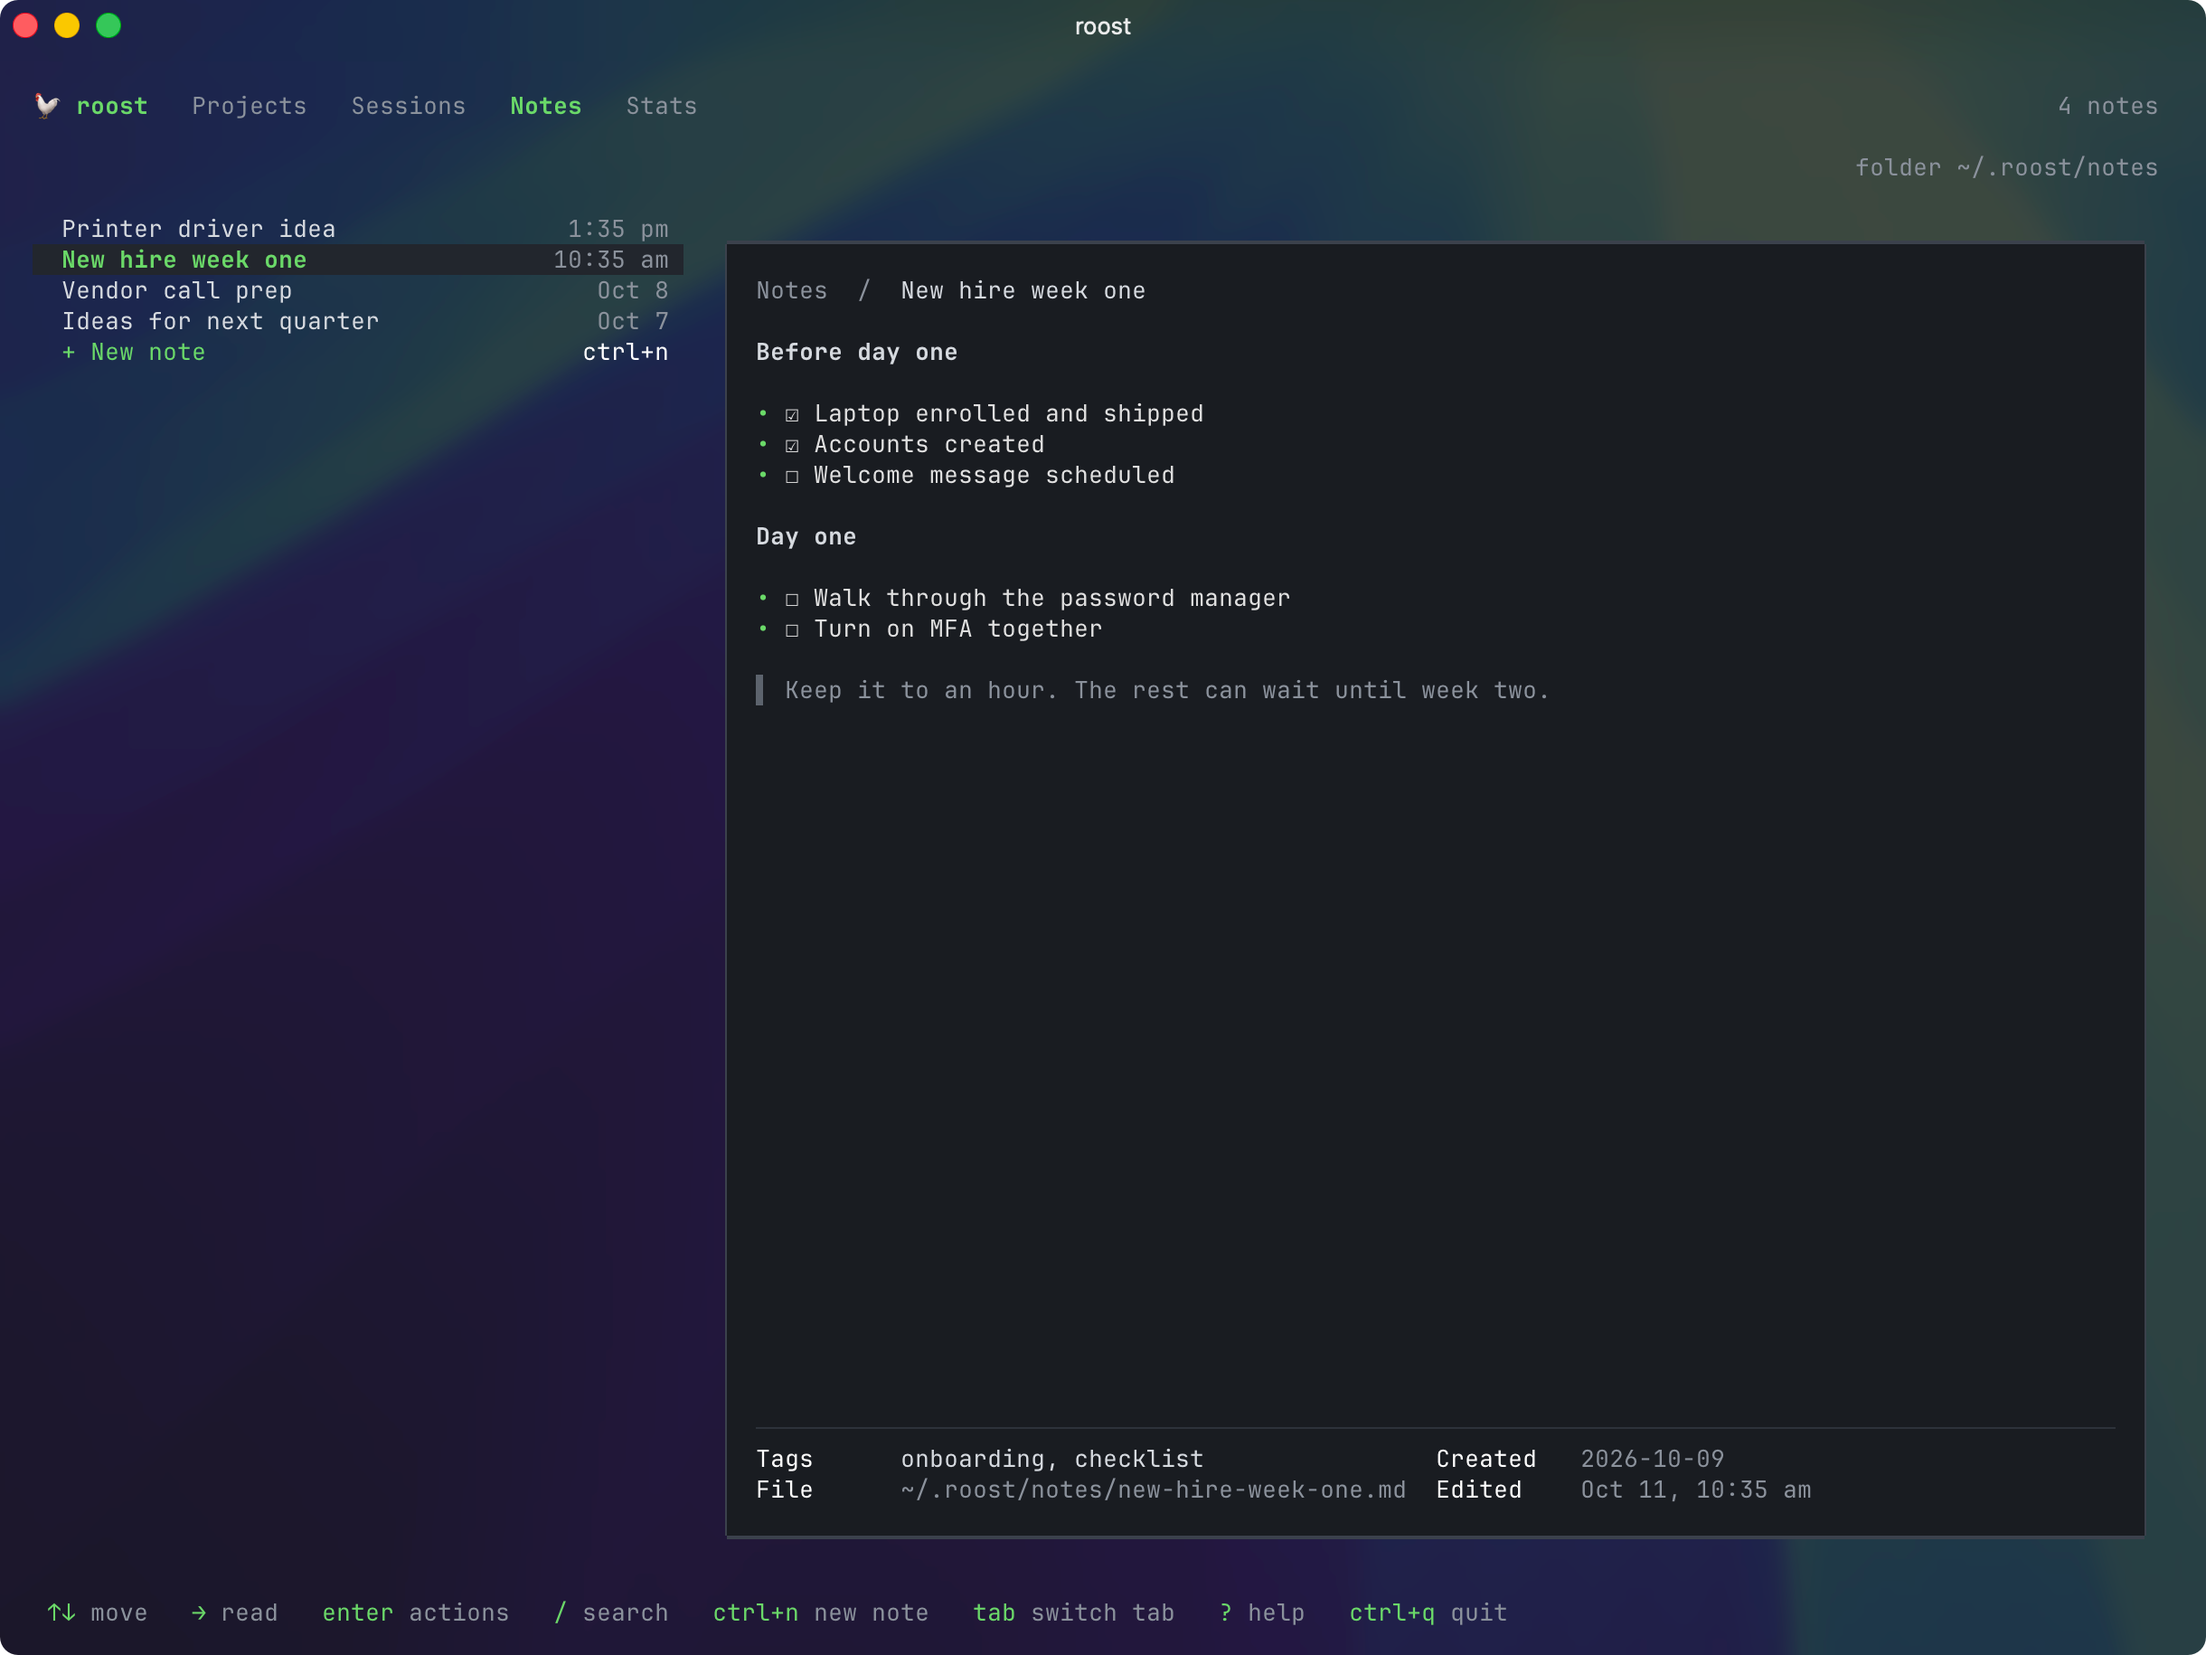
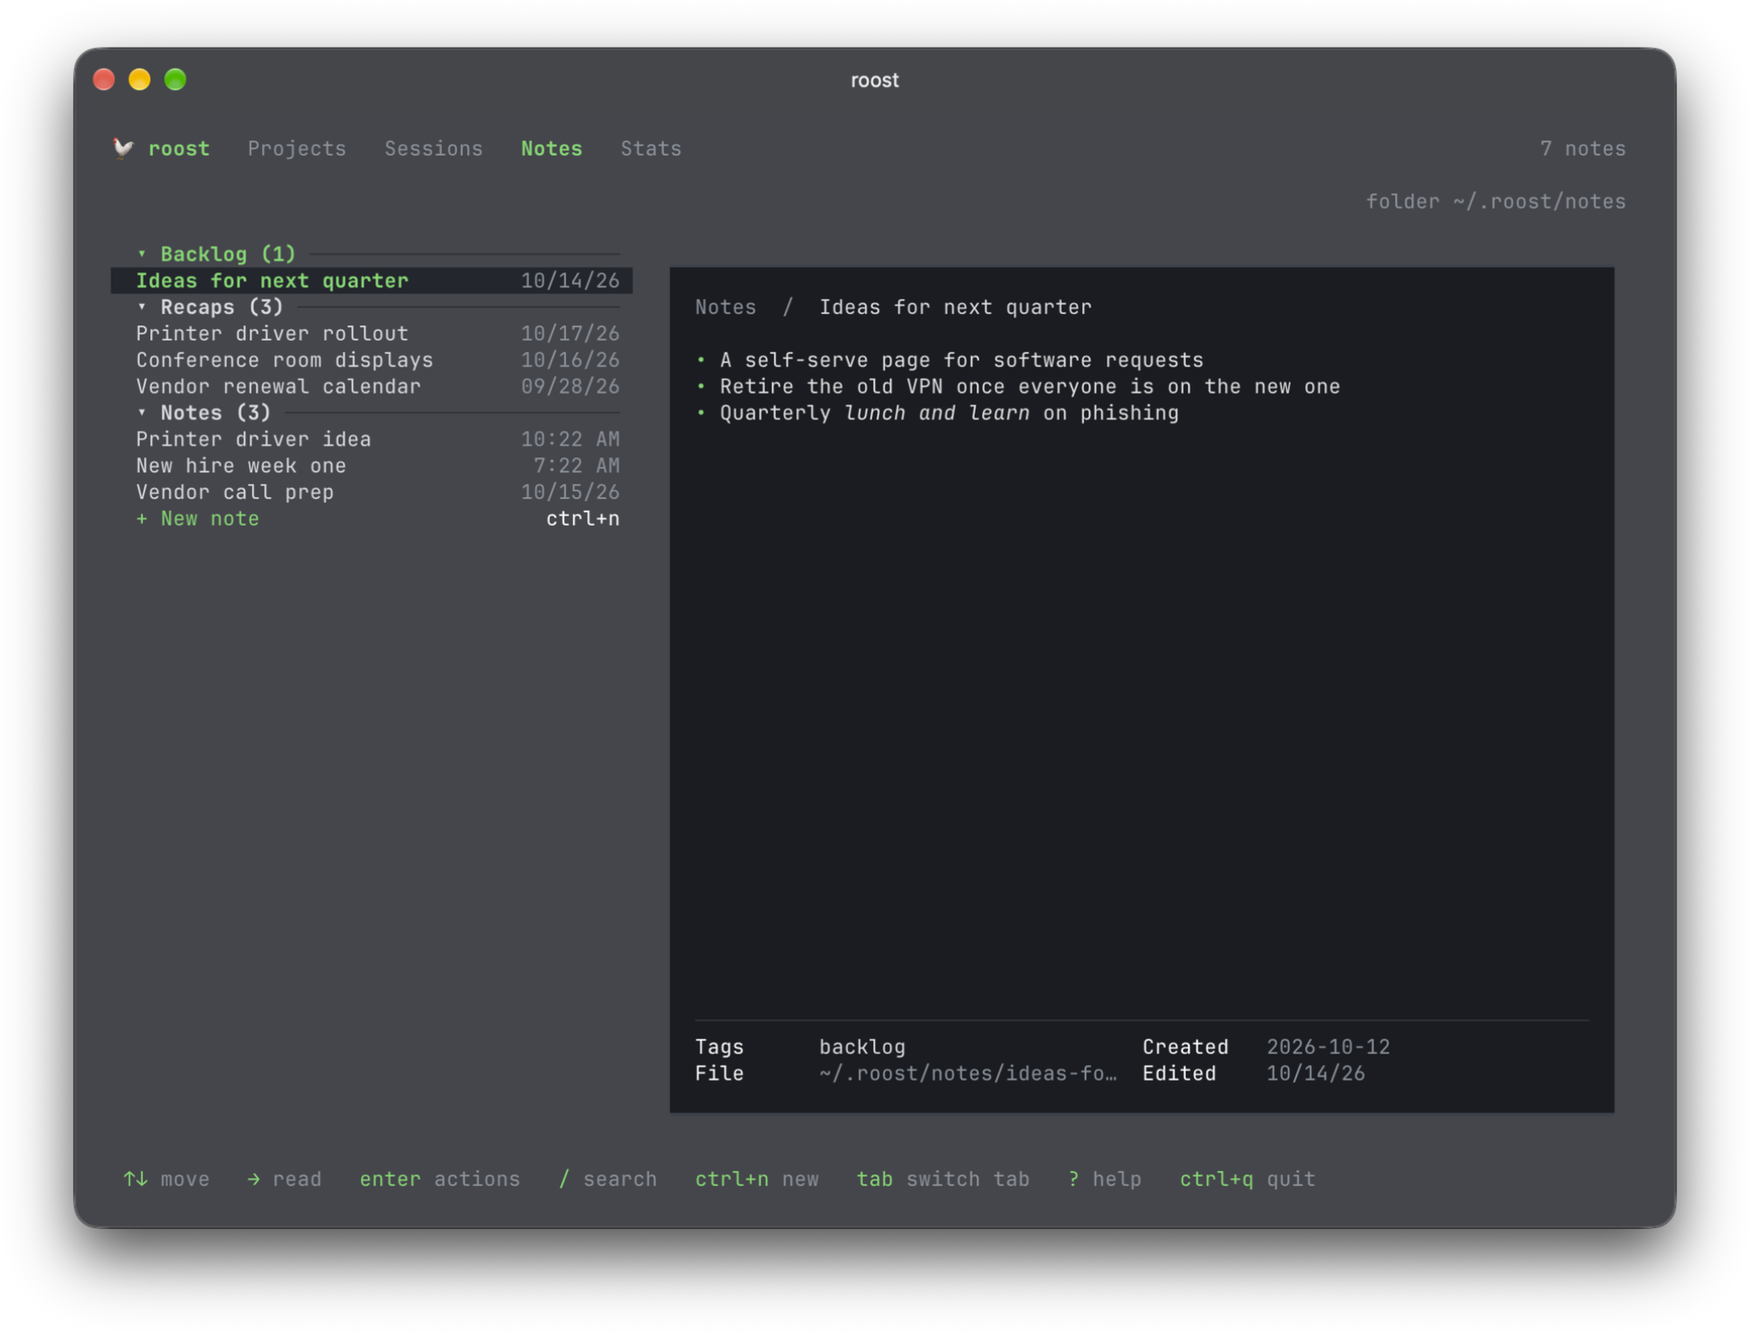
README: every row action, the Stats tab, settings, and new screenshots
Adds the actions menus for a project and a Session, Ask what to do with
it, Adopt it and Rename on a project, the recap actions, a Stats section,
a table of the config.json settings, and roost --version. Projects,
Notes, and Stats screenshots retaken for short dates and column widths.

diff --git a/README.md b/README.md
@@ -12,7 +12,12 @@ Roost is a session manager, not an orchestrator. It never sends work to a sessio
   <img src="assets/stats.png" width="32%" alt="The Stats tab: spend by day, kind, and project">
 </p>
 
-<sub>Projects, then Sessions, Notes, and Stats. Screenshots are of `roost --demo`: made-up Sessions, projects, and notes.</sub>
+<p>
+  <img src="assets/project-actions.png" width="49%" alt="A project's actions: Start a Session, Show its Sessions, Set its category, Edit its tags, Show its folder in Finder, New project">
+  <img src="assets/session-actions.png" width="49%" alt="A Session's actions: Open in a new window, Move to another project, Write its Handoff, Ask what to do with it, Unpin, Rename, Stop, Copy its id">
+</p>
+
+<sub>Projects, then Sessions, Notes, and Stats; below them, a project's and a Session's actions (Enter or right-click on a row). Screenshots are of `roost --demo`: made-up Sessions, projects, and notes.</sub>
 
 ## Install
 
@@ -51,6 +56,7 @@ Clone this repo and run `./dev-link.sh`. It links `~/.local/bin/roost` and `~/.r
 | `roost <text>` | Open it with a search applied |
 | `roost --list` | Plain-text listing, for scripts |
 | `roost --demo` | Made-up sessions for screenshots; nothing real is read or changed |
+| `roost --version` | Print the version |
 | `roost setup` | Check prerequisites, choose a terminal and the Projects folder, and install the plugin |
 | `roost update` | Install the latest release and bring the plugin along (Homebrew: `brew upgrade roost` first) |
 | `roost project new <id> --summary "…"` | Make a project folder and its README; `brief`, `list`, and `status` read and set the rest |
@@ -88,9 +94,11 @@ The keys are the same on every tab. Everything you can do to a row is in its act
 | ? | Show the keys |
 | Ctrl+q | Quit (a plain q does nothing) |
 
-**A Session's actions:** Open (or go to its window), New project from this Session, Add to a project (or move to another), Write its Handoff or Session recap from the transcript (shows the cost first), Pin or Unpin (on a closed one, restart it in the background, pinned), Rename, Dismiss or Undismiss (a closed one), Stop or Delete to the Trash (both ask first), Copy its id, and Show its folder in Finder. A closed Session a project lists isn't reopened; its first action starts a fresh Session for the project.
+**A Session's actions:** Open (or go to its window), New project from this Session, Add to a project (or move to another), Write its Handoff or Session recap from the transcript (shows the cost first), Ask what to do with it, Pin or Unpin (on a closed one, restart it in the background, pinned), Rename, Dismiss or Undismiss (a closed one), Stop or Delete to the Trash (both ask first), Copy its id, and Show its folder in Finder. A closed Session a project lists isn't reopened; its first action starts a fresh Session for the project. A Session with a recap can read it, make it a project (the recap's Handoffs move in), or start a fresh Session from it.
 
-**A project's actions:** Start a Session, Show its Sessions (the Sessions tab, on All, searching `project:<its id>`; esc clears it), Set its category, Edit its tags, Show its folder in Finder, clear an old `_archive/` from roost adopt, and New project. **+ New project**, at the bottom of the list, makes one too.
+**Ask what to do with it** has a model read the Session's transcript and your open projects (it shows the cost first) and comes back with a verdict and why: delete it, write its Session recap, write its Handoff, add it to one of your projects, or leave it as it is, with its open items and anything you'd lose by deleting it. The advised choice is selected in a menu of every choice; nothing happens until you pick one, and anything that spends or deletes asks again.
+
+**A project's actions:** Start a Session, Show its Sessions (the Sessions tab, on All, searching `project:<its id>`; esc clears it), Adopt it (a folder not yet in roost's layout: plans its README and files, you review the plan, then it writes its Handoffs), Set its category, Edit its tags, Rename (its folder; not while a Session runs in it), Show its folder in Finder, clear an old `_archive/` from roost adopt, and New project. **+ New project**, at the bottom of the list, makes one too.
 
 A project has one category (what kind of work it is), its README's `category:` line, and any number of tags (what it's about), its `tags: [a, b]` list. Set its category lists the categories in `CATEGORIES.md` in your Projects folder, one `- name: what it covers` line each, plus any other a project uses; a new one you type joins the list. Edit its tags ticks tags from every tag already in use, or adds a new one. Sessions are listed only on the Sessions tab. A project's SESSIONS column counts its running ones (◆ need input · ● working · ○ idle) and, on a line under them, its unwrapped ones: closed, with no Handoff covering their last message, and not dismissed. NAME gets the most room; in a wide window, spare room goes to NAME, then CATEGORY and TAGS until their values show whole, then evenly to every column; when the window is narrow, LAST WORKED gives way first, then SESSIONS, TAGS, CATEGORY, and STATUS. Dates in the lists and panels are a time today (2:17 PM) and a date otherwise, month or day first as your locale has it (10/14/26 or 14/10/26). A Session recap (what `/wrap-up` writes for a Session no project lists) shows in its Session's panel, and the Session's actions can read it or make it a project.
 
@@ -108,6 +116,25 @@ From the shell, `roost note "Printer driver idea" Push it from the MDM` saves a 
 
 Roost opens notes in the `editor` setting in `~/.config/roost/config.json`, else `$VISUAL`, else `$EDITOR`, else [micro](https://micro-editor.github.io) (`brew install micro`). It waits for an editor in the terminal and gets out of the way of one with its own window (VS Code, Zed, and the like); `editor_wait` (true or false) overrides that. Roost never edits a note itself, except for setting its `project:` line when you move it.
 
+### Stats
+
+What your Sessions cost: every reply's tokens at Anthropic's list price, before any discount, so it's a ceiling, not your invoice. ← → picks the range: Today, This week (from Monday), Month to date, or All time (as far back as Claude Code keeps transcripts). The tab shows the month's spend and its pace, a calendar of spend by day, the most expensive day, Session, and project, your streaks, how much of your prompt tokens came from the cache, and spend by day split by kind: Live work, Wrap-ups (after `/wrap-up`), and roost's own calls for Recaps and Handoffs, Ask, and Adopt (logged in `~/.roost/spend.jsonl` as they run). `/` narrows the spend-by-project list to the projects you type. Set `monthly_limit` (below) to see the month against it.
+
+### Settings
+
+`roost setup` writes the first two; the rest are optional. All live in `~/.config/roost/config.json`.
+
+| Setting | What it does |
+|---|---|
+| `terminal` | Where sessions open: `ghostty`, `terminal`, or `iterm2` |
+| `projects_dir` | Your Projects folder (default `~/.roost/projects`) |
+| `editor`, `editor_wait` | The editor notes open in, and whether roost waits for it (see Notes) |
+| `name_width` | The Sessions tab's NAME width (default 40) |
+| `summary_model` | The model that writes Handoffs, recaps, and adopt plans and answers Ask (default `claude-sonnet-5-5`) |
+| `summary_budget_usd` | The most one of those runs may spend, in dollars (default 5) |
+| `monthly_limit` | A monthly budget in dollars: the Stats tab shows month to date against it |
+| `adopt_archive_days` | Days before roost suggests clearing an `_archive/` from roost adopt (default 5) |
+
 While a Handoff is being written from a transcript, the row counts up: `summarizing 2/3 · 1m40s` (the draft, the review, then the README).
 
 Click a column header to sort by it, and click again to reverse.
@@ -118,7 +145,7 @@ Ghostty, Terminal.app, and iTerm2 can open sessions in new windows. Choose one w
 
 ## How it works
 
-Roost reads Claude Code's local state. It calls a model only when you ask for a Handoff, a Session recap, or an adopt plan, shows the estimated cost first, and logs what each call cost in `~/.roost/spend.jsonl`. Everything else comes from:
+Roost reads Claude Code's local state. It calls a model only when you ask for a Handoff, a Session recap, an adopt plan, or what to do with a Session, shows the estimated cost first, and logs what each call cost in `~/.roost/spend.jsonl`. Everything else comes from:
 
 - `claude agents --json` for live sessions and their status
 - `~/.claude/projects/**/*.jsonl` transcripts for names, summaries, files touched, and context size (cached in `~/.cache/`)
